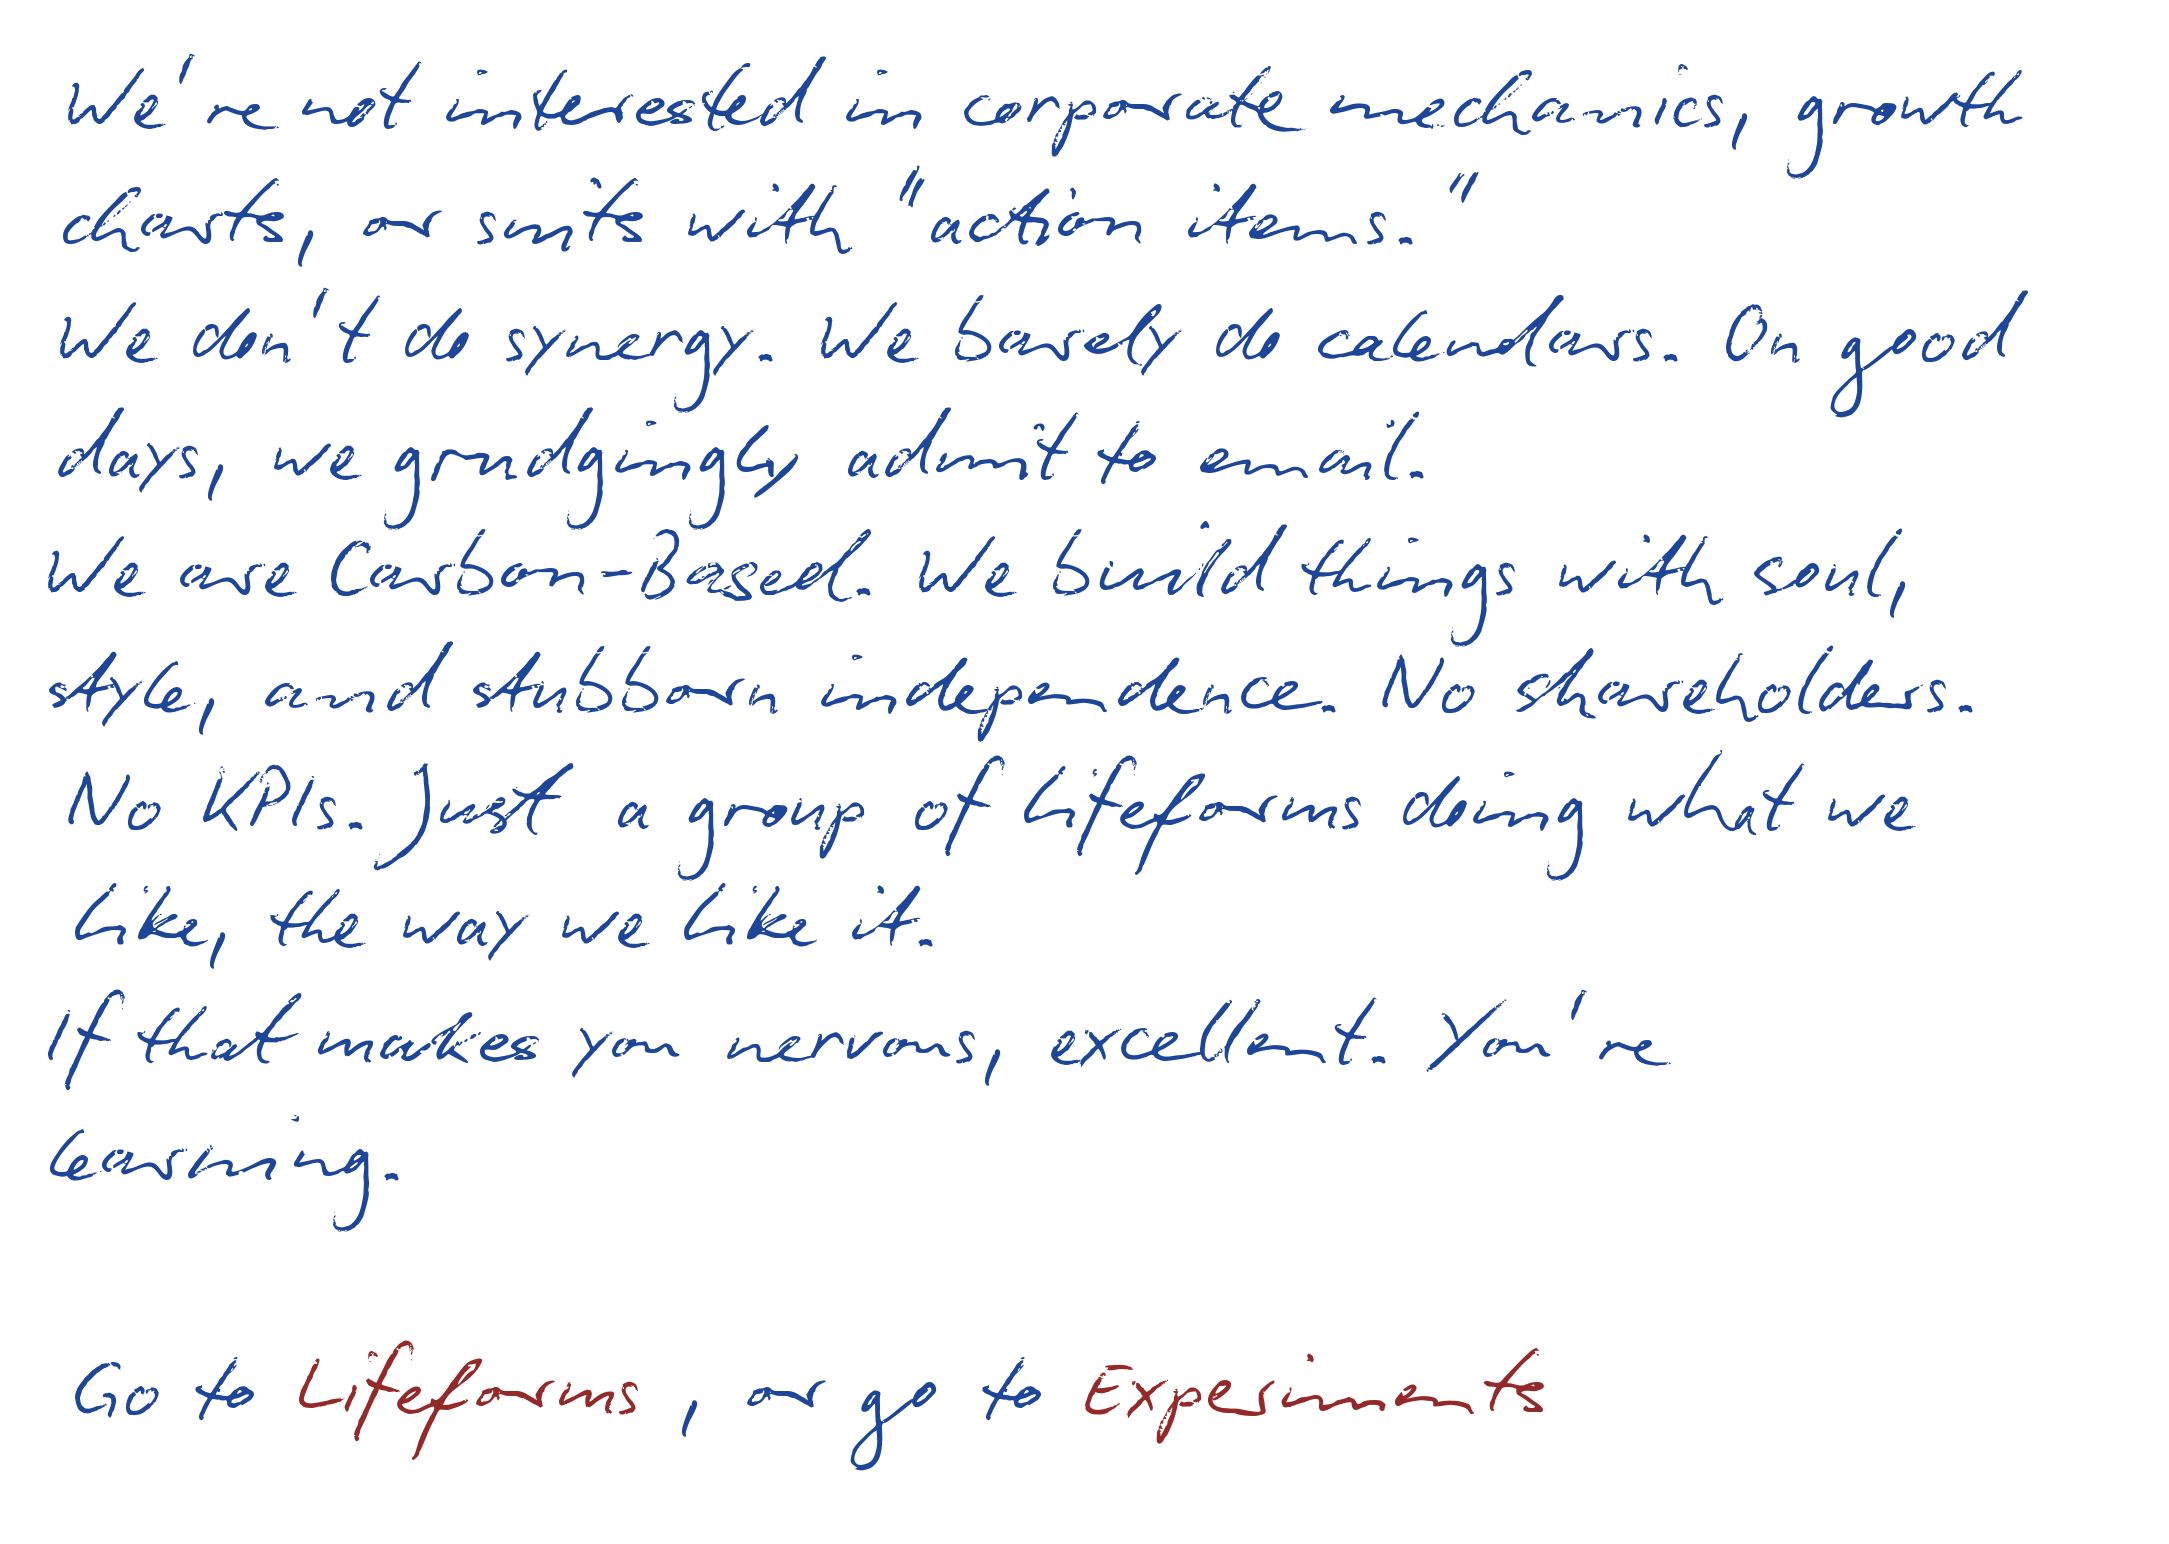
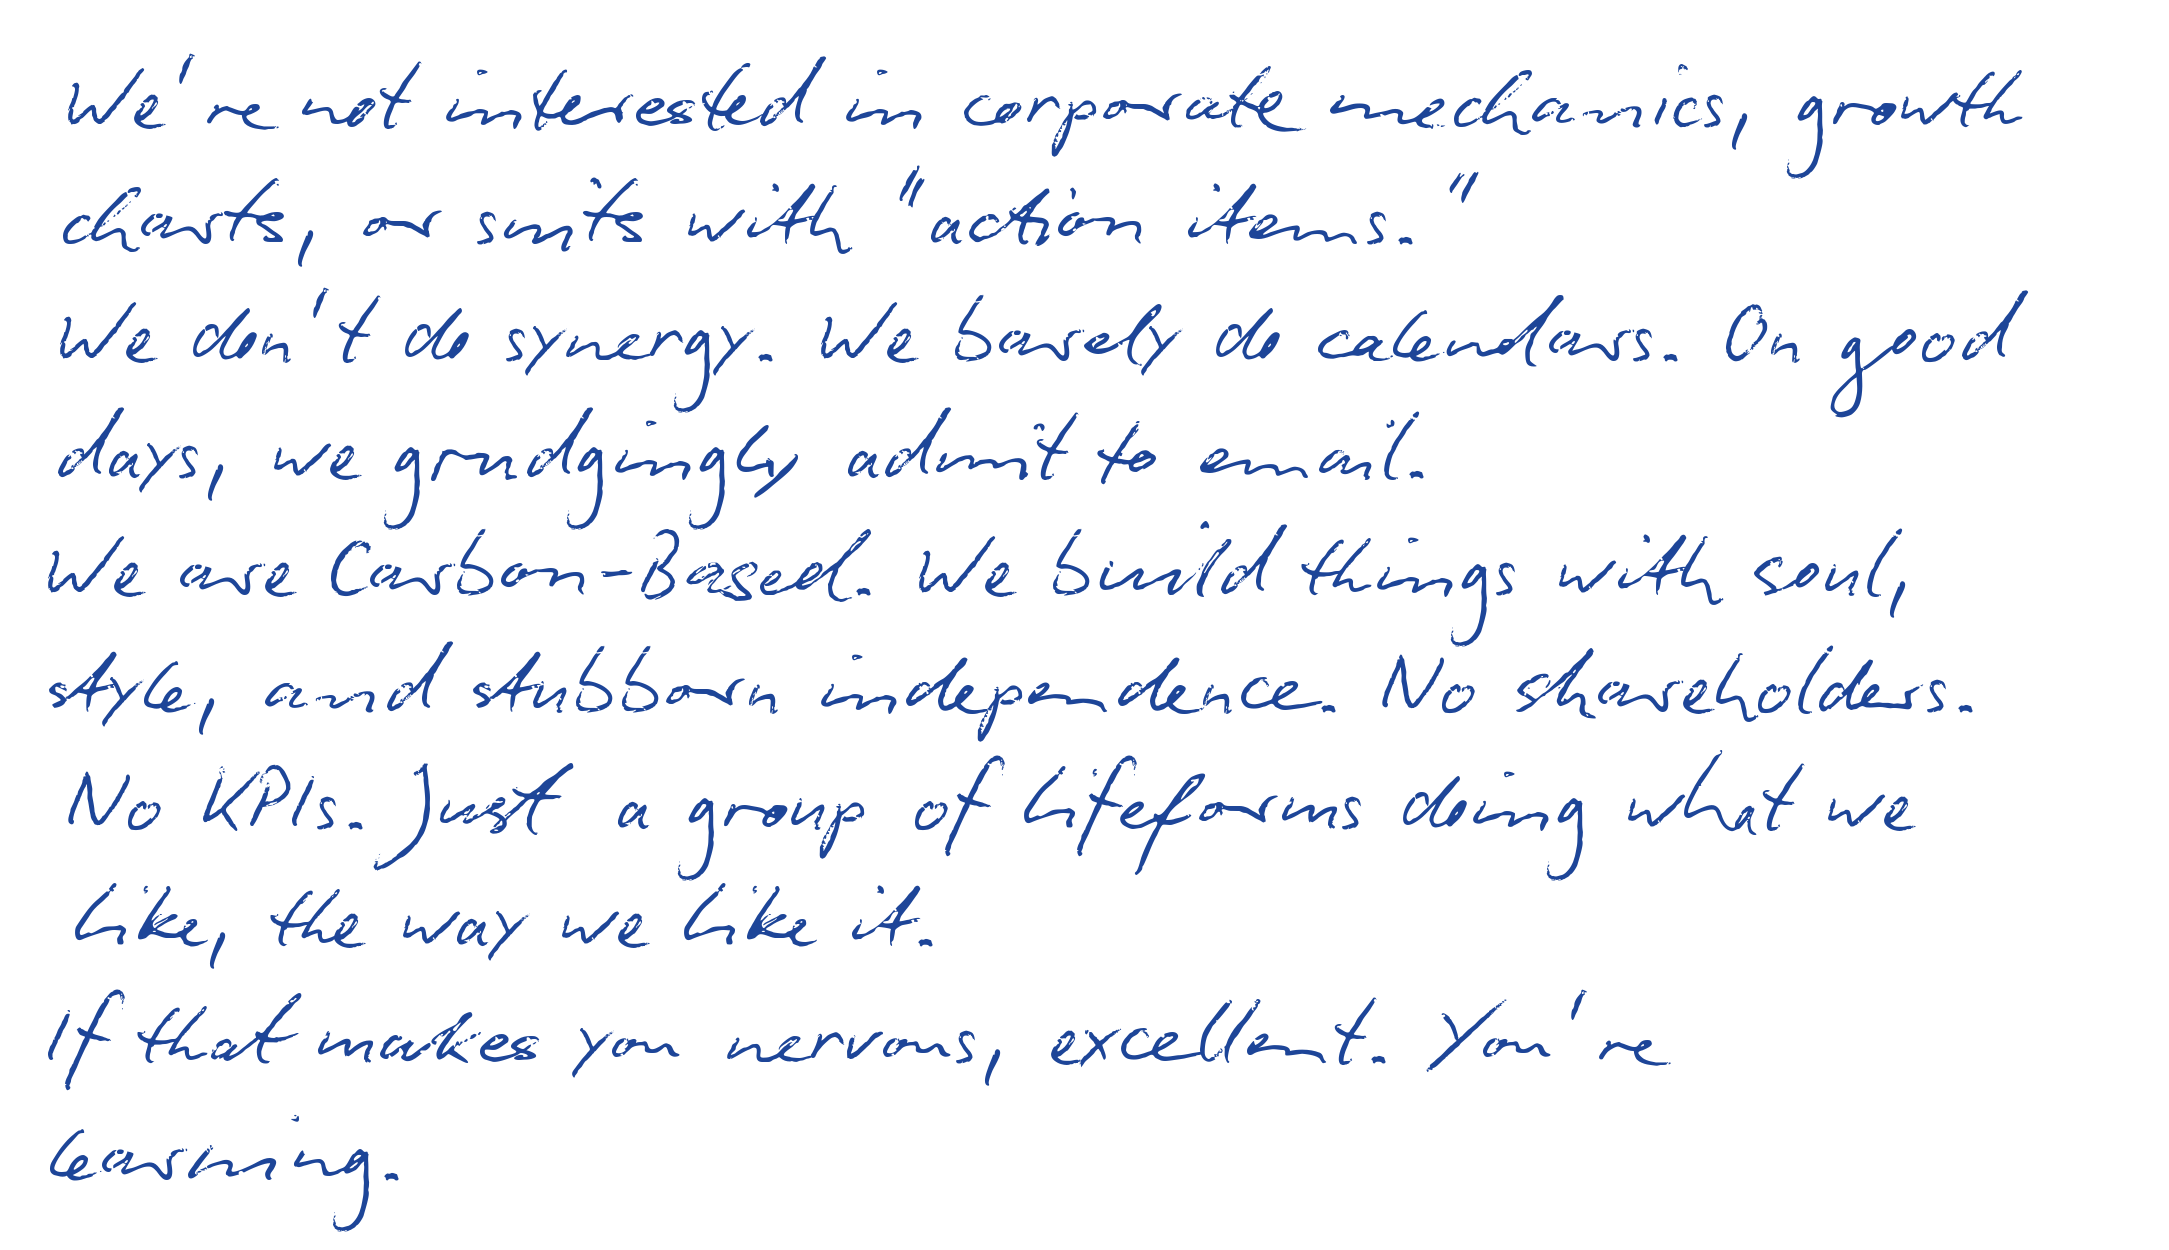
-

diff --git a/app/page.tsx b/app/page.tsx
@@ -6,7 +6,7 @@ export default function Home() {
       
       {/* Centered writing image */}
       <div className="relative z-10 flex min-h-screen items-center justify-center p-8">
-        <div className="relative w-full max-w-4xl space-y-8">
+        <div className="relative w-full max-w-4xl space-y-0">
         <Image
             src="/brain.png"
             alt="Brain illustration"
@@ -16,36 +16,47 @@ export default function Home() {
             quality={95}
           />
 
-          <span className="inline-block">
-            <Image
-              src="/writing.png"
-              alt="Handwritten text"
-              width={1200}
-              height={1600}
-              className="mx-auto w-full h-auto object-contain"
-              priority
-              quality={95}
-            />
-            <Image
-              src="/writing2.png"
-              alt="Handwritten text"
-              width={1200}
-              height={1600}
-              className="mx-auto w-full h-auto object-contain"
-              priority
-              quality={95}
-            />
-          </span>
+          <Image
+            src="/writing.png"
+            alt="Handwritten text"
+            width={1200}
+            height={1600}
+            className="mx-auto w-full h-auto object-contain"
+            priority
+            quality={95}
+          />
+          <Image
+            src="/writing2.png"
+            alt="Handwritten text"
+            width={1200}
+            height={1600}
+            className="mx-auto w-full h-auto object-contain"
+            priority
+            quality={95}
+          />
 
-        <div className="flex justify-center pt-4">
-          <a href="/experiments">
-            &rarr; Experiments
-          </a>
+        <div className="flex flex-row items-center justify-center gap-20 pt-2">
           <a href="/lifeforms">
-            &rarr; Lifeforms
+            <Image
+              src="/life_link.png"
+              alt="Lifeforms Link"
+              width={160}
+              height={160}
+              className="object-contain"
+            />
+          </a>
+          <a href="/experiments">
+            <Image
+              src="/exp_link.png"
+              alt="Experiments Link"
+              width={220}
+              height={200}
+              className="object-contain"
+            />
           </a>
 
         </div>
+        
 
         </div>
       </div>
